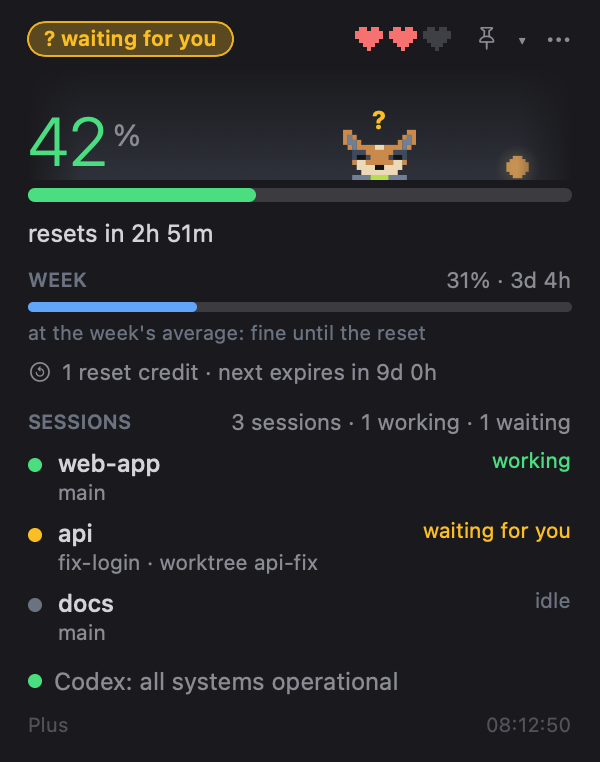
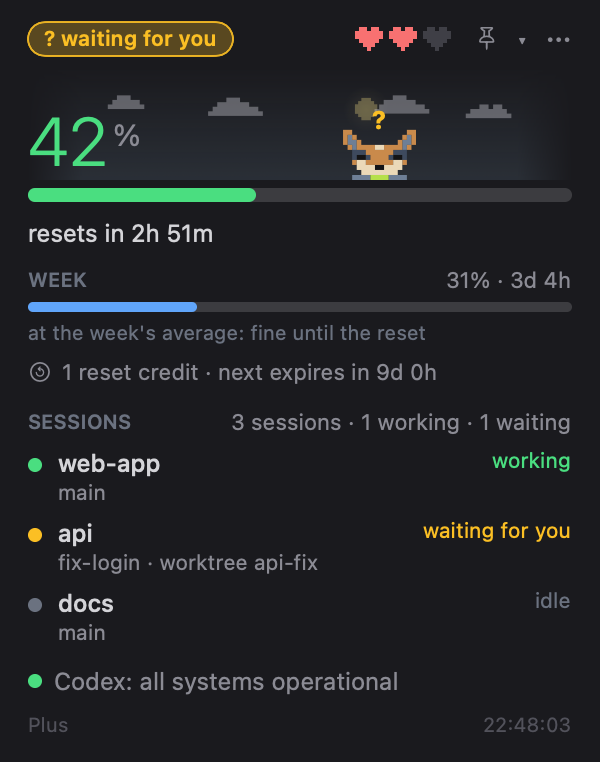
User guide, CONTRIBUTING, ROADMAP and pictures, like Claudy's
Claude-Session: https://claude.ai/code/session_01H59aT1Z1aRZx3aCc7AvFJu

diff --git a/Sources/CodexyUsage/Strings.swift b/Sources/CodexyUsage/Strings.swift
@@ -121,7 +121,7 @@ enum L {
             "weather.manual": "Fixed place", "weather.lat": "Latitude", "weather.lon": "Longitude",
             "set.history": "7-day history", "history.clear": "Clear", "history.clear.tip": "Forget the saved 5h and week samples",
             "hist.samples": "%d samples", "set.files": "Files", "open.log": "Open log", "open.data": "Open data folder",
-            "set.about": "Codexy %@ · built on Claudy and clawd-usage-winwidget (MIT). Not made by OpenAI. Clawd is Anthropic's, a placeholder here.",
+            "set.about": "Codexy %@ · built on Claudy and clawd-usage-winwidget (MIT). Not made by OpenAI.",
             "set.moreHint": "The rest of Claude Code's settings (hooks, permissions, plugins, env) are in settings.json",
         ],
         "pt": [
@@ -206,7 +206,7 @@ enum L {
             "weather.manual": "Local fixo", "weather.lat": "Latitude", "weather.lon": "Longitude",
             "set.history": "Histórico de 7 dias", "history.clear": "Apagar", "history.clear.tip": "Esquecer as amostras salvas de 5h e semana",
             "hist.samples": "%d amostras", "set.files": "Arquivos", "open.log": "Abrir o log", "open.data": "Abrir a pasta de dados",
-            "set.about": "Codexy %@ · feito sobre o Claudy e o clawd-usage-winwidget (MIT). Não é da OpenAI. Clawd é da Anthropic, provisório aqui.",
+            "set.about": "Codexy %@ · feito sobre o Claudy e o clawd-usage-winwidget (MIT). Não é da OpenAI.",
             "set.moreHint": "O resto das configurações do Claude Code (hooks, permissões, plugins, env) fica no settings.json",
         ],
     ]

diff --git a/docs/GUIDE.md b/docs/GUIDE.md
@@ -1,0 +1,201 @@
+# Codexy guide
+
+Detailed reference for the panel, floating widget, Theo and the other mascots, settings and data sources.
+For requirements and installation, see the [README](../README.md#install).
+
+[Panel](#what-it-shows) · [Widget](#floating-widget) · [Mascots](#theo-and-the-other-mascots) · [Tokens](#tokens-per-day) · [Settings](#settings) · [Your own art](#your-own-mascot) · [Data sources](#where-the-data-comes-from) · [Privacy](#privacy-and-security) · [Troubleshooting](#troubleshooting) · [Development](#development)
+
+## What it shows
+
+Click the menu bar item and a card drops down.
+
+<p align="center">
+  <img src="images/panel-week.png" width="300" alt="The details open on the 7-day view: the week's quota cycle chart">
+</p>
+
+- **Menu bar label** — two mini bars, `5h` and `W`, in the colour of their level. In Settings you can switch to bars with numbers, or numbers only.
+- **Big number** — the 5-hour window, straight from Codex. The bar goes green → yellow → red at levels you choose (default 60% and 85%). Under it, *resets in 2h 51m* and the pace forecast.
+- **Hearts** — the mascot's health: how much of the 5-hour limit is left. Each half heart is about 16.7%.
+- **WEEK** — the weekly limit with the time to reset and the weekly pace.
+- **Extra limits** — when Codex reports other buckets (a model or feature with its own limits), one line each; and *Limit reached: …* when Codex says which limit stopped you. Plus plans report only the main bucket today.
+- **Credits line** — the reset credits you have (each one starts your limits over early; you use it in Codex, Codexy only counts them and shows when the next one expires) and paid credits, only when there is something to show.
+- **SESSIONS** — every Codex session that is loaded right now, with the **project, the git branch, the worktree** and the thread name, and whether it is *working*, *waiting for you* or *idle*. Handy for catching a forgotten agent burning your limit.
+- **Service status** — green *Codex: all systems operational*, or yellow/red with the open incident and the affected components (Codex Web, Codex API, CLI, VS Code extension). A click opens status.openai.com.
+- **Plan line** — your plan (Plus, Pro…) and the time of the last answer, marked *stale* if it is old. When the numbers come from the last session file instead of Codex, it says so.
+- The **▾** opens the details:
+  - **24 hours / 7 days** switch, with the number of turns and sessions.
+  - **Limits chart** — the 5-hour percentage (green, filled) and the weekly one (blue). On **24 hours** it shows the last day; on **7 days** it shows the **quota's own cycle**, from the last reset to the next. Marks show resets and the moments a limit reached 100%. Hover for the time and both percentages.
+  - **Projects** — which projects spent the most, counted from Codex's own session files (tokens weighted by the model's price; a git remote names the project, worktrees count for their repo). Click one for its models and busiest hours.
+  - **Models** — the share by model. It is an estimate of weight, not tokens: OpenAI does not say how each model counts against the plan.
+  - **When you use it** — an hour-by-day heatmap.
+  - **Footer** — the Codex version, with *update available* when GitHub has a newer release, and Codexy's own version.
+- **Alerts** — when a session is **waiting for you** the menu bar label gets a yellow **?** that blinks, the card's title becomes a pulsing *waiting for you* pill and the bubble's rim pulses; when a limit **starts over** the mascot celebrates and confetti falls for a few seconds. Optional macOS notifications for each (off by default). A notification when you will hit the 5-hour limit within the hour is on by default.
+- **⋯ menu** — refresh now, export CSV, tokens per day, settings, floating widget, launch at login, quit. The **pin** puts the widget on the screen.
+
+## Floating widget
+
+<p align="center">
+  <img src="images/floating-card.png" width="300" alt="The floating widget as a card">
+  <img src="images/floating-bubble.png" width="150" alt="The widget folded into a bubble with two rings">
+</p>
+
+<p align="center">
+  <img src="images/floating.gif" width="300" alt="The widget inflates like a bubble, folds into the two-ring bubble, unfolds, and shrinks away">
+</p>
+
+The dropdown's compact card — the sky, the mascot, the 5-hour number, the week, the sessions, the status — in its own window that floats over everything and can be put **anywhere**. Its position is remembered, and it comes back when the app starts.
+
+- It **folds into a bubble** with two rings (5h outside, the week inside) around the 5-hour number, and unfolds again. On macOS 26 and later the card and the bubble are **Liquid Glass** and morph into each other.
+- It **inflates out of the dropdown** like a bubble when you press the pin, and shrinks back into the bar when you close it.
+- Options in Settings → Menu bar: show it, always on top, Liquid Glass or the theme's solid background, opacity. Right-click it for the same switches.
+
+## Theo and the other mascots
+
+Theo is a pixel blue heeler, drawn from the owner's dog. Bit (a robot), Coruja (an owl) and Livrinho (a book) are the other three; pick one in Settings → Look → Mascot. Their mood follows your sessions and your limits:
+
+| situation | the mascot |
+|---|---|
+| no Codex session is running | burrows into the sand and sleeps, "z"s float up |
+| sessions are idle | wanders, looks around, follows your cursor; after a few seconds standing still, Theo sits |
+| 10 minutes with no mouse over it | dozes standing up |
+| a session is working | runs edge to edge, dust flying (Theo walks in side view, turning with the direction) |
+| a session is waiting for you | wide eyes, jumps, a yellow **?** above |
+| a session just finished | crouches and throws its arms up |
+| you click it | a random animation (jump, spin, peekaboo, wink…) and a heart |
+| the 5-hour window resets | celebrates, a green **!**, confetti |
+| the 5-hour bar is above the red level | sweats and darts its eyes |
+| the 5-hour bar is at 100% | lies belly-up with X eyes |
+
+The less limit left, the slower and sleepier it gets. Each mascot has four faces: normal, slack (low use), crit (near the limit) and sleep.
+
+Behind it is a **sky** that follows the real sunrise and sunset where you are: the sun moves along an arc, at night there is the moon **in its real phase** and twinkling stars. The weather ([Open-Meteo](https://open-meteo.com), no key) adds clouds drifting with the wind, drizzle, rain, showers, snow that settles under its feet, fog and thunderstorms. Hover the sky for the place, temperature, weather, wind, sunrise, sunset and the moon's phase.
+
+<table>
+<tr>
+<td align="center"><img src="images/sleep.gif" width="380" alt="No Codex running: Theo burrows into the sand and sleeps"><br><sub>Nothing runs: it burrows into the sand and sleeps</sub></td>
+<td align="center"><img src="images/clicks.gif" width="380" alt="Click it: a random animation and a heart"><br><sub>Click it: a random animation and a heart</sub></td>
+</tr>
+<tr>
+<td align="center"><img src="images/limit.gif" width="380" alt="Limit at 100%: belly-up"><br><sub>Limit at 100%: belly-up</sub></td>
+<td align="center"><img src="images/reset.gif" width="380" alt="The 5-hour window resets: celebration and confetti"><br><sub>The 5-hour window resets: celebration and confetti</sub></td>
+</tr>
+<tr>
+<td align="center"><img src="images/hearts.gif" width="380" alt="Hearts are its health: less limit left, slower and sleepier"><br><sub>Hearts are its health: less limit left, slower and sleepier</sub></td>
+<td align="center"><img src="images/weather.gif" width="380" alt="The sky follows the time of day and the weather"><br><sub>The sky follows the time of day and the weather</sub></td>
+</tr>
+</table>
+
+<p align="center">
+  <img src="images/mascot-situations.png" width="420" alt="Theo in eight situations: working in sun, resting in rain, waiting at dusk, in snow at night, in a storm near the limit, asleep, out of limit, in fog at dawn">
+</p>
+
+**Developer menu:** right-click the sky in the open panel to force a mood, play any move, set the hearts, the time of day or the weather. *Auto* goes back to live data.
+
+## Tokens per day
+
+**⋯ → Tokens per day…** opens a window of its own: one stacked bar per day, a colour per model, for the last 7 or 30 days. Hover a day for the split. Under the chart, each model's total with its input, output and cached input.
+
+It is a real token count (input plus output, reasoning included), counted on this Mac from Codex's own session files, the same scan as the details. The shares under Details are an estimate of weight; this window is tokens. The models beyond the first five are grouped as *other models*. Days are your local days.
+
+## Settings
+
+**⋯ → Settings…** opens a window with three tabs, in the language and theme you choose; everything applies at once.
+
+<p align="center">
+  <img src="images/settings-look.png" width="330" alt="Settings, Look tab: language, theme, accent colour, mascot cards">
+  <img src="images/settings-menubar.png" width="330" alt="Settings, Menu bar tab: label style, what the panel shows, bar colours, floating widget">
+</p>
+
+- **Look** — language (Automatic, English, **Português**), theme (*Classic, OLED black, Midnight, Mocha, Forest, Halloween*, or *By season*), an accent colour, and the **mascot** as cards with a live preview.
+- **Menu bar** — the label style, the **floating widget** switches, what the panel shows (the mascot, the sky and weather, sessions, status, plan, the details), and the **bar colours**: the levels where the bars turn yellow and red, with a live scale.
+- **System** — launch at login, the weather place (automatic from the system's location, or a fixed latitude and longitude), clearing the 7-day history, opening the log and the data folder.
+
+## Your own mascot
+
+A mascot is a plain text file on an 18 × 12 grid with up to four faces and optional side poses. Drop yours in `~/Library/Application Support/Codexy/pets/` (the same name replaces a built-in one) and pick its card in Settings → Look:
+
+```
+---
+name: Bit
+b: #8E9AAF
+---
+[normal]
+...
+```
+
+[**docs/CREATING-ART.md**](CREATING-ART.md) is the longer guide to the pixel grid, animations and the sky. Preview a pet from the command line with `CODEXY_PET=<id>` and `--scenes`, or render every pet in every mood with `--pets DIR`.
+
+## Where the data comes from
+
+| what | source | how often |
+|---|---|---|
+| limits, plan, credits | `codex app-server` over stdio: `account/rateLimits/read` (no model call). Fallback: the last `token_count` event of the newest `~/.codex/sessions/**/rollout-*.jsonl` | every 60 s; every 20 s at 90% 5h or weekly usage; after wake |
+| running sessions | Codex's app-server daemon (`~/.codex/app-server-control/app-server-control.sock`): the loaded threads and their exact state. Fallback: the rollout files a `codex` process holds open | every 5 s |
+| project, branch, worktree | the `.git` of each session's folder, read directly | with the sessions |
+| project, model and token stats | Codex's rollout files in `~/.codex/sessions` and `archived_sessions` (`.jsonl.zst` read with `zstd` if installed) | when the details are open, every 15 min; the tokens window scans when it opens |
+| Codex version | `codex --version`, and GitHub `openai/codex` releases | every 6 hours |
+| service status | `status.openai.com` (the Codex group) | every 2 min |
+| weather | `api.open-meteo.com` (latitude and longitude only) | every 10 min |
+| the limits history | each answer, saved by the app | each answer |
+
+`codex app-server` answers in under a second. If it does not answer, the app falls back to the last session file, says so, and tries again.
+
+## Privacy and security
+
+- **No credentials.** The app never reads `auth.json`, your tokens or an API key, and has no login of its own. `codex` finds its own login.
+- **Nothing is uploaded and there is no analytics.** The only network calls are the ones in the table above, to OpenAI's status page, GitHub (the Codex version) and Open-Meteo (a latitude and longitude, no identifier).
+- **Location is optional.** The system's location, with your permission, is used only to ask Open-Meteo for the weather. You can refuse and type a fixed place instead.
+- **Your sessions stay local.** Reading `~/.codex/sessions` only picks session headers, model names and token counts; lines of conversation are skipped without being decoded, and nothing from them is kept.
+- **It changes nothing it was not asked to.** Codexy never writes to your Codex files and never runs a Codex update: it shows the command.
+- **No self-update.** Update with Homebrew, download a new release, or pull the code and rebuild; see [Updating](../README.md#updating).
+- **What it stores**, all in your user folders: `~/Library/Application Support/Codexy/` (the limits history, your own mascots), `~/Library/Logs/Codexy.log` (probe failures), and the app's preferences (`defaults read dev.julio.codexy`).
+
+## Not in this version
+
+- **A `config.toml` view.** Planned, read-only first.
+- **Side poses for Bit, Coruja and Livrinho** (they walk facing forward), and accessories for the new heads.
+- **Sessions of the Codex desktop app.** They show if the app uses the same app-server daemon; not checked.
+- **Waiting for you with approvals on**, reset credits and extra limits with real values, and project weights against the 5-hour bar are built and tested with fixtures but not yet seen with real use. See [docs/STATUS.md](STATUS.md).
+- The download is not notarized (no Apple Developer ID): see [Install](../README.md#download-the-app).
+
+## Troubleshooting
+
+- **The number shows `--` or "no data"** — check that `codex` is installed and logged in. The panel shows why the read failed under the number, and `~/Library/Logs/Codexy.log` has the details (**Settings → System → Open log**). The last numbers stay on screen, marked *stale*.
+- **Launched from Finder, `codex` is not found** — a menu bar app starts with a bare PATH; Codexy looks in `~/.local/bin`, Homebrew and `/usr/local/bin`.
+- **"from a session file"** — the app-server did not answer, so the numbers are from your last Codex turn. A window whose reset already passed shows 0%.
+- **The chart is nearly empty at first** — the history starts the day you first run the app, and fills in as it runs.
+- **A session is missing** — only threads loaded in Codex's app-server, or with a session file a `codex` process holds open, appear. Sub-agents and internal reviews are hidden on purpose.
+- **Projects or the tokens window are empty** — they read `~/.codex/sessions`; if your older sessions are `.jsonl.zst`, install `zstd`.
+- **Nothing happens when I build in `~/Documents`** — use `./scripts/bundle.sh`; it builds elsewhere on purpose.
+
+## Development
+
+```sh
+S=$HOME/Library/Caches/codexy-build
+swift build --scratch-path $S
+swift test  --scratch-path $S           # the core's unit tests
+./scripts/bundle.sh                     # builds, signs and installs ~/Applications/Codexy.app
+./scripts/make-icon.sh                  # redraws Resources/AppIcon.icns from the code
+./scripts/package.sh                    # dist/Codexy-<version>-macos.zip + .sha256, universal
+```
+
+The code is two targets: `CodexyCore` (no UI: the Codex readers, sessions, history, the rollout scanner, the mood machine, the sky) and `CodexyUsage` (SwiftUI: the menu bar, the card, the settings, the floating widget, the tokens window). Read [CLAUDE.md](../CLAUDE.md) first: the layout, the commands, and the problems that already cost time.
+
+Pictures without screen-recording permission, and with made-up data (nothing real on the screen):
+
+```sh
+export CODEXY_DEMO=1 CODEXY_VERSION="$(cat VERSION)" CODEXY_NO_FLOAT=1
+$S/debug/CodexyUsage -language en --readme out/        # the panel, the settings, the mascot in eight situations
+$S/debug/CodexyUsage -language en --float-test out/    # opens the real floating window and captures it
+$S/debug/CodexyUsage -language en --gifs out/          # the animated GIFs of the mascot (scripted, seeded)
+$S/debug/CodexyUsage -language en --float-gif out/     # a GIF of the real floating widget (unset CODEXY_NO_FLOAT)
+$S/debug/CodexyUsage --snapshot out/                   # panel.png + bar.png with live data
+```
+
+`CODEXY_PET=<id>` picks the mascot, `CODEXY_DETAILS=1` opens the details in a snapshot. Never put real project names, branches, session names or paths in a picture.
+
+Other documents: [ROADMAP.md](../ROADMAP.md), [CONTRIBUTING.md](../CONTRIBUTING.md), [docs/STATUS.md](STATUS.md) (done, checked live, next), [docs/CREATING-ART.md](CREATING-ART.md).
+
+## Versions and news
+
+The version is in the [`VERSION`](../VERSION) file (semantic versioning); `bundle.sh` writes it into the app, and you see it in the details footer and in Settings. What changed in each version is in [**CHANGELOG.md**](../CHANGELOG.md). Each release is a tag (`vX.Y.Z`) with a GitHub Release whose notes are the changelog's entry and whose zip is the app; **Watch → Custom → Releases** on GitHub tells you when there is a new one. For each installation method, see [Updating](../README.md#updating).

diff --git a/README.md b/README.md
@@ -12,8 +12,9 @@ Track your 5-hour and weekly limits, see which Codex sessions need you, and keep
 <p align="center">
   <a href="https://github.com/juliobianco/codexy/releases/latest">Download for macOS</a> ·
   <a href="#install">Install</a> ·
-  <a href="docs/STATUS.md">Status</a> ·
-  <a href="CHANGELOG.md">Changelog</a>
+  <a href="docs/GUIDE.md">User guide</a> ·
+  <a href="CHANGELOG.md">Changelog</a> ·
+  <a href="CONTRIBUTING.md">Contribute</a>
 </p>
 
 Built from [Claudy Usage](https://github.com/juliobianco/claudy-usage-mac), the same widget for Claude Code, with English and Brazilian Portuguese support.
@@ -87,7 +88,12 @@ Location is optional and only used for the weather behind Theo. You can decline 
 | **Theo and the sky** | Four pixel mascots (Theo, Bit, Coruja and Livrinho), themes, local weather, sunrise, sunset and moon phases. Draw your own as a text file. |
 | **Status and updates** | OpenAI status for Codex with the affected components, a warning when the usage read keeps failing, plan information, and the Codex version with a notice when a newer one is out. |
 
-Screenshots use demo data. See [docs/CREATING-ART.md](docs/CREATING-ART.md) to draw your own mascot.
+<p align="center">
+  <img src="docs/images/floating.gif" width="300" alt="Floating widget opening, folding into a bubble and expanding again">
+  <img src="docs/images/tour.gif" width="300" alt="Theo working, celebrating a finished session and waiting for input">
+</p>
+
+Screenshots use demo data; animations use scripted data. Explore the [full guide](docs/GUIDE.md) for more screenshots, settings, the mascots' moods and [your own mascot](docs/CREATING-ART.md).
 
 ## Privacy and security
 
@@ -118,13 +124,18 @@ There is no automatic self-update. See the [changelog](CHANGELOG.md) for release
 | **A session is missing** | Only threads Codex has loaded (its app-server) or has a session file open for appear. |
 | **No extra limits or credits row** | They appear only when Codex reports them for your plan. |
 
+More diagnostics and known limitations are in the [guide](docs/GUIDE.md#troubleshooting). Real-use checks still open are in [docs/STATUS.md](docs/STATUS.md) and the [roadmap](ROADMAP.md).
+
 ## Development and contributing
 
-Bug reports and code contributions are welcome.
+Mascots, translations, bug reports and code contributions are welcome. Start with [CONTRIBUTING.md](CONTRIBUTING.md) for build and test commands.
 
-- [Status and backlog](docs/STATUS.md) — what is done, what was checked live and what is next.
+- [User guide](docs/GUIDE.md) — detailed features, settings, animations and troubleshooting.
 - [Developer reference](CLAUDE.md) — source layout, build commands and implementation notes.
+- [Screenshot and GIF tools](docs/GUIDE.md#development) — generate images with demo data.
 - [Creating art](docs/CREATING-ART.md) — your own mascot as a text file.
+- [Roadmap](ROADMAP.md) — planned work.
+- [Status and backlog](docs/STATUS.md) — what is done, what was checked live and what is next.
 
 ## Credits and license
 

diff --git a/ROADMAP.md b/ROADMAP.md
@@ -1,0 +1,34 @@
+# Roadmap
+
+Where Codexy is going. It is a small project made in the open: the list is short on purpose. What is already done is in the [CHANGELOG](CHANGELOG.md); what was checked with real use, and what was not, is in [docs/STATUS.md](docs/STATUS.md).
+
+**Now** — the app works and has a release ([0.2.0](https://github.com/juliobianco/codexy/releases/tag/v0.2.0)): the 5-hour and weekly limits, the exact state of each session, usage by project and model, a tokens-per-day window, OpenAI status, the floating widget, four mascots, settings in English and Portuguese.
+
+## Next
+
+Small, clear, and good for a first contribution.
+
+- **Check it with real use** — what only a person at the keyboard can see: *waiting for you* with approvals on (`codex -a on-request`), reset credits and paid credits with a real value, extra limits on a plan that has them, the project weights against how far the 5-hour bar moved, and the Codex desktop app (whether its threads show).
+- **A `~/.codex/config.toml` view** — read-only first; any write only after a click, keeping comments and order.
+- **Side poses for Bit, Coruja and Livrinho** — they walk facing forward; Theo has `[walk1] [walk2] [sit]`. A pet is a text file, see [the guide](docs/CREATING-ART.md).
+- **Accessories** — hats and glasses for the new heads (a head anchor per pet file), then show the picker again.
+- **More languages** — adding one is one table of text. Spanish, French.
+- **Manual validation on other Macs** — macOS 14 and 15 (no Liquid Glass), Intel, a second display.
+
+## Later
+
+Bigger, or waiting for something.
+
+- **A notarized download** — needs an Apple Developer ID; until then the zip asks for "Open Anyway".
+- **A check for new versions of Codexy itself** — notify and open the release page; never download and run code.
+- **A global hotkey** to show and hide the floating widget.
+- **Accessibility** — VoiceOver labels for the card, the bubble and the settings, and a "reduce motion" switch for the mascot.
+- **Claudex** — Claude and Codex in one app. Wait until both readers have settled, then decide between one app with two providers or a shared core package.
+
+## Not planned
+
+A self-update that downloads and runs code, and a lookup of your location by IP address. The reasons are in the README's [Privacy](README.md#privacy-and-security) section.
+
+## How to help
+
+Pick anything above, open an issue to say so, and read [CONTRIBUTING.md](CONTRIBUTING.md). Bug reports with the log (**Settings → System → Open log**, with names removed) are the most useful thing there is.

diff --git a/CONTRIBUTING.md b/CONTRIBUTING.md
@@ -1,0 +1,33 @@
+# Contributing
+
+Thanks for looking. A change can be a mascot, a translation, a bug report or code. Small is welcome.
+
+## Build and test
+
+```sh
+S=$HOME/Library/Caches/codexy-build
+swift build --scratch-path $S
+swift test  --scratch-path $S
+./scripts/bundle.sh          # installs ~/Applications/Codexy.app
+```
+
+Build outside `~/Documents` (the scripts do): macOS adds file attributes there that break `codesign`. [CLAUDE.md](CLAUDE.md) lists the layout, the commands and the problems that already cost time. Read it before changing the data layer.
+
+## What to know
+
+- **Two targets.** `CodexyCore` has no UI and is unit-tested; `CodexyUsage` is SwiftUI. Logic goes in the core, with a test.
+- **Text.** Never hard-code a string a user sees: add the key to `Sources/CodexyUsage/Strings.swift` in **both** languages (`L.t("key", args)`). A new language is one more table there.
+- **Mascots and animations.** [docs/CREATING-ART.md](docs/CREATING-ART.md). A mascot is a `.txt` file in `Sources/CodexyUsage/pets/`.
+- **Style.** Match the file you are in: comments say why, in English; one file per domain; no new dependencies for something a few lines can do.
+- **No credentials, ever.** The app does not read `auth.json` or any token, and a change that does will not be merged. `codex` finds its own login.
+- **No conversation text.** The rollout scanner picks lines by their first bytes so a prompt or an answer is never decoded. Keep it that way.
+
+## Pictures
+
+Screenshots and GIFs are made by the app with made-up data (`CODEXY_DEMO=1`): see [the screenshot and GIF tools](docs/GUIDE.md#development). **Never put real project names, branches, session names, e-mails or paths in a picture.**
+
+## Pull requests
+
+Say what changed and why, keep it to one thing, add or update a test when there is logic, and update the [CHANGELOG](CHANGELOG.md) under *Unreleased*. If you are not sure it fits, open an issue first.
+
+Everything here is under the [MIT license](LICENSE).
